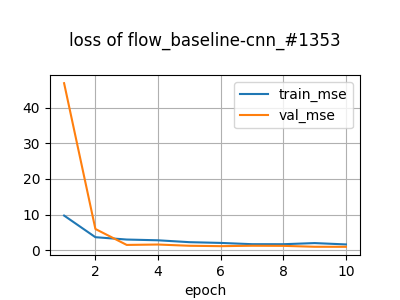
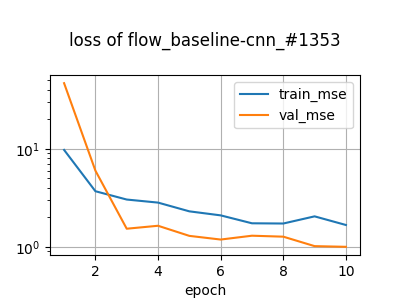
minor fixes to ploy.py and add log scale

Changed region(s): [[0.03, 0.27, 0.9, 0.87]]

diff --git a/src/plot.py b/src/plot.py
@@ -3,7 +3,7 @@ from os.path import isfile, isdir, join, splitext, basename, dirname
 import numpy as np
 import matplotlib.pyplot as plt
 import argparse
-
+from matplotlib.font_manager import FontProperties
 
 def parse(**options):
     path = options['path']
@@ -48,35 +48,44 @@ def lookup(d):
     return label
 
 def plot_all_loss(**options):
-    plt.figure(1, figsize=(8,3))
-    ax1 = plt.subplot(1,2,1)
+    logscale = options['logscale']
+    fig, (ax1, ax2) = plt.subplots(1,2, figsize=(12,3))
     handles = []
     for log in logs:
         label = lookup(results[log])
-        handles += (ax1.plot(results[log]['epoch'], results[log]['train_mse'], label=label))
+        if logscale:
+            handles += (ax1.semilogy(results[log]['epoch'], results[log]['train_mse'], label=label))
+        else:
+            handles += (ax1.plot(results[log]['epoch'], results[log]['train_mse'], label=label))
     ax1.set_title('train_loss')
     ax1.grid(True)
     ax1.set_xlabel('epoch')
-    ax2 = plt.subplot(1,2,2)
     handles = []
     for log in logs:
         label = lookup(results[log])
-        handles += (ax2.plot(results[log]['epoch'], results[log]['val_mse'], label=label))
+        if logscale:
+            handles += (ax2.semilogy(results[log]['epoch'], results[log]['val_mse'], label=label))
+        else:
+            handles += (ax2.plot(results[log]['epoch'], results[log]['val_mse'], label=label))
     ax2.set_title('val_loss')
     ax2.grid(True)
     ax2.set_xlabel('epoch')
-    ax2.legend(handles=handles)
-    plt.gcf().subplots_adjust(bottom=0.15, top=0.85)
+    ax2.legend(handles=handles, loc='center left', bbox_to_anchor=(1, 0.5))
+    plt.gcf().subplots_adjust(bottom=0.15, top=0.85, right=0.75)
     plt.savefig('{}/loss_all.png'.format(options['path']))
 
 def plot_sep_loss(**options):
+    logscale = options['logscale']
     plt.clf()
     for i, log in enumerate(logs):
-        plt.figure(i+1, figsize=(4,3))
+        fig, ax1 = plt.subplots(figsize=(4,3))
         handles = []
-        ax1 = plt.subplot()
-        handles += (ax1.plot(results[log]['epoch'], results[log]['train_mse'], label='train_mse'))
-        handles += (ax1.plot(results[log]['epoch'], results[log]['val_mse'], label='val_mse'))
+        if logscale:
+            handles += (ax1.semilogy(results[log]['epoch'], results[log]['train_mse'], label='train_mse'))
+            handles += (ax1.semilogy(results[log]['epoch'], results[log]['val_mse'], label='val_mse'))
+        else:
+            handles += (ax1.plot(results[log]['epoch'], results[log]['train_mse'], label='train_mse'))
+            handles += (ax1.plot(results[log]['epoch'], results[log]['val_mse'], label='val_mse'))
         ax1.set_title('loss of {}'.format(lookup(results[log])))
         ax1.grid(True)
         ax1.set_xlabel('epoch')
@@ -89,6 +98,8 @@ def main():
     parser = argparse.ArgumentParser(description='Visualize a sequence of images as video')
     parser.add_argument('--path', dest='path', action='store', default='../results',
             help='Specify path for result logs')
+    parser.add_argument('--logscale', dest='logscale', action='store_true',default=False,
+        help='Use log scale')
     (options, args) = parser.parse_known_args()
 
     options = vars(options)
